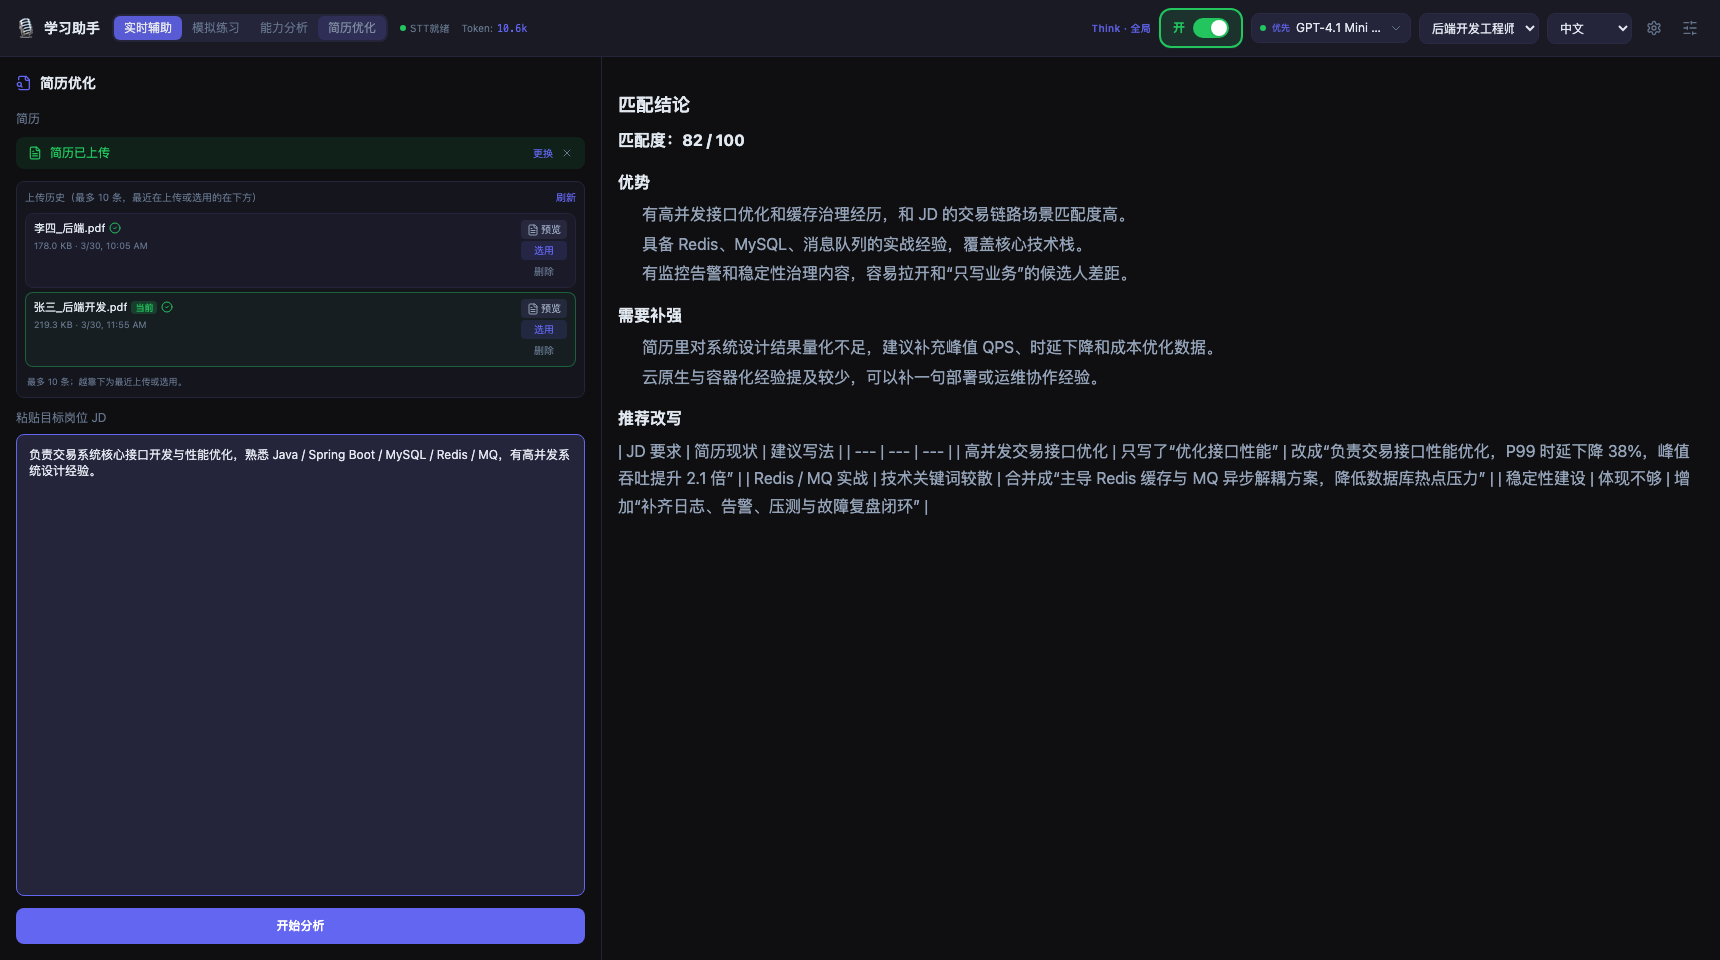
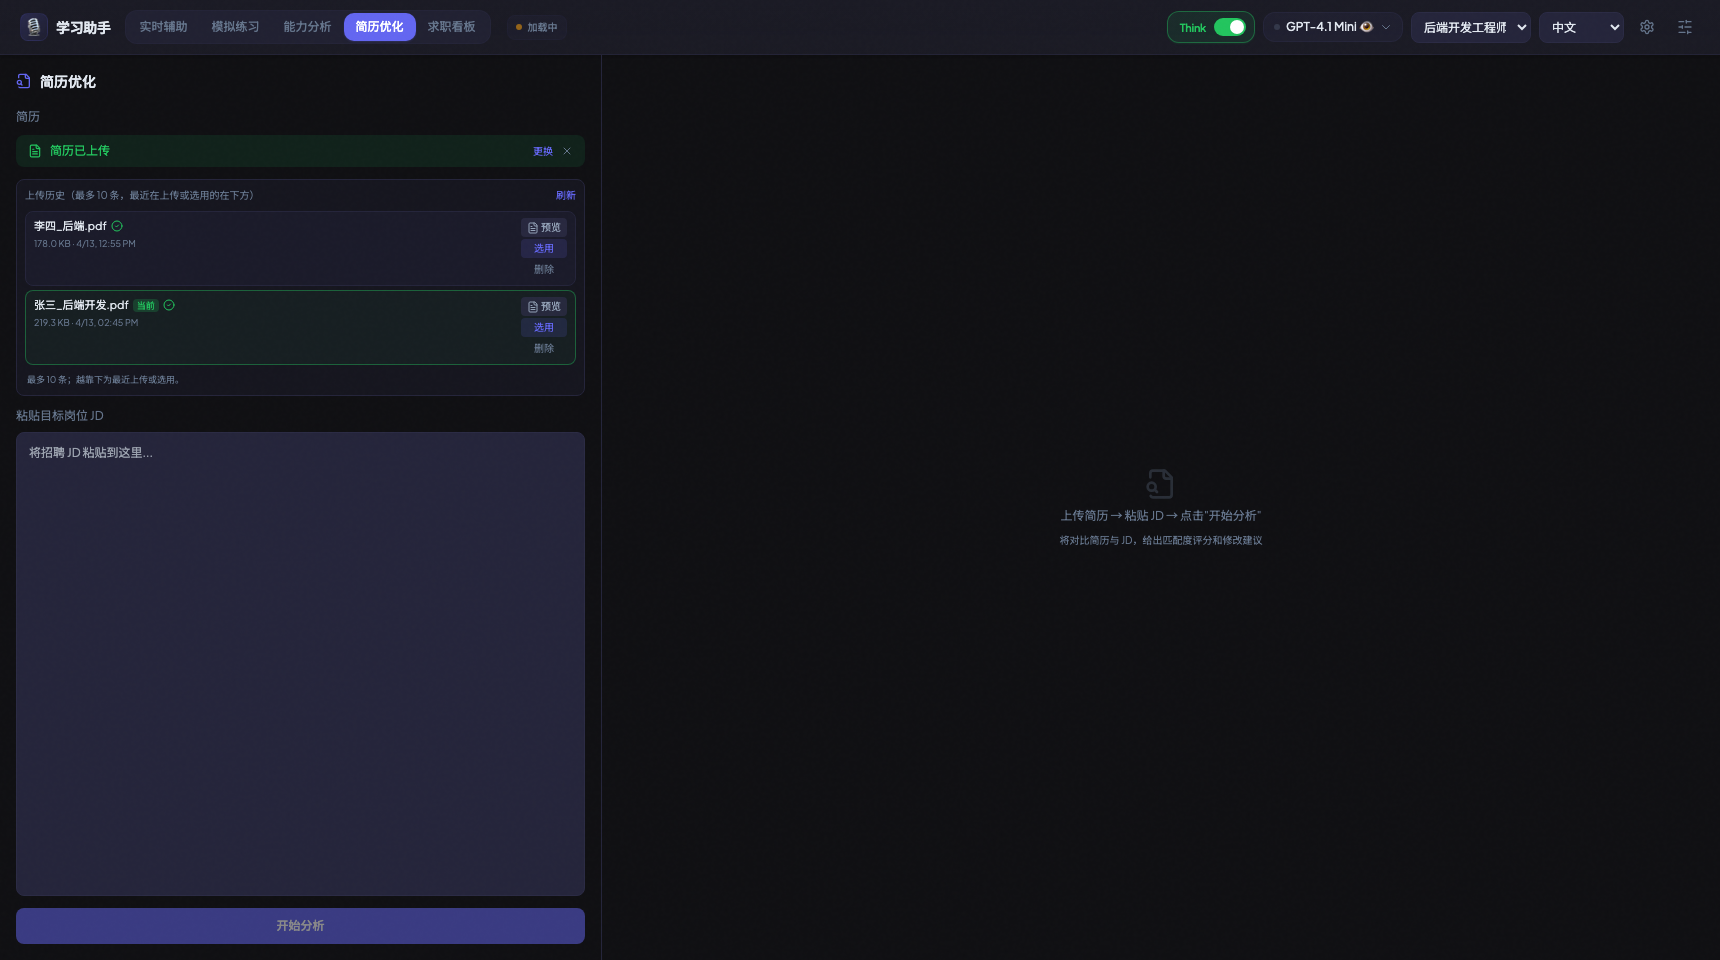
docs: README 文案优化、截图更新与 gitignore 补充
- README 描述更口语化，补充悬浮窗和开发测试命令
- 更新四张功能截图为最新 UI
- 截图脚本适配 tab role 选择器，新增 preflight mock
- gitignore 添加 docs/screenshots/review/ 和 frontend/output/
- 新增后端 API 契约测试和并发测试文件

diff --git a/backend/tests/test_wave1_backend_concurrency.py b/backend/tests/test_wave1_backend_concurrency.py
@@ -1,0 +1,80 @@
+from __future__ import annotations
+
+import asyncio
+from pathlib import Path
+import importlib
+import sys
+
+
+BACKEND_DIR = Path(__file__).resolve().parents[1]
+if str(BACKEND_DIR) not in sys.path:
+    sys.path.insert(0, str(BACKEND_DIR))
+
+common_router = importlib.import_module("api.common.router")
+ws_mod = importlib.import_module("api.realtime.ws")
+assist_pipeline = importlib.import_module("api.assist.pipeline")
+
+
+class DummyUpload:
+    def __init__(self, filename: str, content: bytes):
+        self.filename = filename
+        self._content = content
+
+    async def read(self) -> bytes:
+        return self._content
+
+
+def test_api_upload_resume_offloads_blocking_work_to_threadpool(monkeypatch):
+    called: dict[str, object] = {}
+
+    def fake_add_upload(content: bytes, filename: str):
+        return {"ok": True, "filename": filename, "size": len(content)}
+
+    async def fake_run_in_threadpool(fn, *args, **kwargs):
+        called["fn"] = fn
+        called["args"] = args
+        called["kwargs"] = kwargs
+        return fn(*args, **kwargs)
+
+    monkeypatch.setattr(common_router, "add_upload", fake_add_upload)
+    monkeypatch.setattr(common_router, "run_in_threadpool", fake_run_in_threadpool)
+
+    result = asyncio.run(
+        common_router.api_upload_resume(DummyUpload("resume.txt", b"hello world"))
+    )
+
+    assert called["fn"] is fake_add_upload
+    assert called["args"] == (b"hello world", "resume.txt")
+    assert result["ok"] is True
+
+
+def test_broadcast_counts_and_drops_when_queue_is_full(monkeypatch):
+    class InlineLoop:
+        def call_soon_threadsafe(self, callback, *args):
+            callback(*args)
+
+    class FullQueue:
+        def put_nowait(self, data):
+            raise asyncio.QueueFull
+
+    monkeypatch.setattr(ws_mod, "_loop", InlineLoop())
+    monkeypatch.setattr(ws_mod, "_msg_queue", FullQueue())
+    monkeypatch.setattr(ws_mod, "_broadcast_drop_count", 0, raising=False)
+
+    ws_mod.broadcast({"type": "audio_level", "value": 0.42})
+
+    assert ws_mod._broadcast_drop_count == 1
+
+
+def test_submit_knowledge_record_uses_bounded_worker(monkeypatch):
+    submitted: list[tuple[str, str]] = []
+
+    class FakeWorker:
+        def submit(self, question: str, answer: str) -> bool:
+            submitted.append((question, answer))
+            return True
+
+    monkeypatch.setattr(assist_pipeline, "_knowledge_worker", FakeWorker(), raising=False)
+
+    assert assist_pipeline._submit_knowledge_record("说说 Redis 持久化", "先讲 RDB，再讲 AOF") is True
+    assert submitted == [("说说 Redis 持久化", "先讲 RDB，再讲 AOF")]

diff --git a/backend/tests/test_api_contracts.py b/backend/tests/test_api_contracts.py
@@ -1,0 +1,46 @@
+from __future__ import annotations
+
+import asyncio
+from pathlib import Path
+import importlib
+import sys
+
+import pytest
+from fastapi import HTTPException
+
+
+BACKEND_DIR = Path(__file__).resolve().parents[1]
+if str(BACKEND_DIR) not in sys.path:
+    sys.path.insert(0, str(BACKEND_DIR))
+
+main_mod = importlib.import_module("main")
+assist_routes = importlib.import_module("api.assist.routes")
+
+
+def test_is_path_within_dir_rejects_same_prefix_sibling(tmp_path: Path):
+    safe_dir = tmp_path / "dist"
+    sibling_dir = tmp_path / "dist-evil"
+    safe_dir.mkdir()
+    sibling_dir.mkdir()
+
+    assert main_mod._is_path_within_dir(safe_dir, sibling_dir / "index.html") is False
+
+
+def test_api_start_rejects_non_integer_device_id():
+    with pytest.raises(HTTPException) as exc_info:
+        asyncio.run(assist_routes.api_start({"device_id": "abc"}))
+
+    assert exc_info.value.status_code == 400
+    assert "device_id" in str(exc_info.value.detail)
+
+
+def test_api_ask_returns_error_when_no_answer_model_available(monkeypatch: pytest.MonkeyPatch):
+    monkeypatch.setattr(assist_routes, "submit_answer_task", lambda task: False)
+
+    with pytest.raises(HTTPException) as exc_info:
+        asyncio.run(
+            assist_routes.api_ask(assist_routes.ManualQuestion(text="解释一下 CAP 定理"))
+        )
+
+    assert exc_info.value.status_code == 503
+    assert "模型" in str(exc_info.value.detail)

diff --git a/README.md b/README.md
@@ -1,7 +1,7 @@
 # 智能面试学习辅助助手
 
-实时听题，自动生成专业面试回答。目前能防大多数屏幕共享检测，具体请自己试试，也支持悬浮模式和歌词模式啦，具体也自己试试
-面向真实技术面试场景：支持系统音频 / 麦克风转写、手动追问、截图审题、多模型切换；Electron 端还提供共享隐身和 Boss Key。
+实时听题，自动生成专业面试回答。你可以把它理解成一个开着就能用的面试辅助工具：你负责听题、追问和临场反应，它负责转写、答题、截图审题，卡壳的时候还能把问答框挂在旁边。
+面向真实技术面试场景：支持系统音频 / 麦克风转写、手动追问、截图审题、多模型切换；Electron 端提供共享隐身、Boss Key、托盘和轻量悬浮窗，绝大多数面试软件场景下都能避开屏幕共享检测。
 
 ![AI 实时辅助演示](docs/screenshots/assist-demo.gif)
 
@@ -15,19 +15,20 @@
 
 ## 为什么值得试
 
-- **实时转写**：采集系统音频或麦克风，把面试过程实时转成文字。
-- **AI 自动答题**：识别问题后直接生成回答，也可以手动输入追问。
+- **实时转写**：采集系统音频或麦克风，把面试过程稳定转成文字。
+- **自动答题 + 手动追问**：识别到问题后直接生成回答，也可以临时补一句“写代码实现”继续追问。
 - **截图审题**：支持粘贴截图，把题目、代码或页面内容直接交给模型分析。
 - **多模型协同**：支持 OpenAI 兼容接口、优先模型、并行路数、自动降级、Think 与识图。
-- **求职看板**：本地记录投递进度，看板 / 表格双视图，Offer 对比（浏览器 & Electron 均可用）。
-- **更适合实战**：Electron 端支持共享隐身、`Ctrl/Command + B` Boss Key、托盘和窗口置顶。
+- **桌面辅助更顺手**：Electron 端支持共享隐身、`Ctrl/Command + B` Boss Key、托盘和悬浮问答框。
+- **不只是答题**：还带求职看板、能力分析、简历优化和模拟练习。
 
 ## 核心流程
 
 1. 选择系统音频或麦克风。
 2. 点击开始，实时转写面试内容。
 3. 识别到问题后自动生成回答。
-4. 需要时手动追问、补一句"写代码实现"、或直接截图审题。
+4. 需要时手动追问、补一句“写代码实现”、或直接截图审题。
+5. 如果不想一直盯主界面，可以打开悬浮问答框，把最近的问题和答案挂在旁边。
 
 静态界面预览：
 
@@ -41,7 +42,7 @@
 | **模拟练习** | AI 面试官出题、逐题评价、生成练习报告 |
 | **求职看板** | 投递进度看板（表格 / Kanban）、拖拽排序、Offer 对比、状态色彩标签 |
 | **能力分析** | 知识点 / 薄弱点沉淀、历史问答记录 |
-| **简历优化** | 上传简历对照 JD、AI 给出修改建议 |
+| **简历优化** | 上传简历，对照 JD 输出修改建议 |
 | **设置中心** | 多模型管理、STT 引擎切换、快捷键、偏好配置 |
 
 ## 架构
@@ -153,7 +154,8 @@ python start.py --mode network  # 浏览器模式，默认 http://localhost:1808
 cd frontend && npm run dev
 cd backend && python -m uvicorn main:app --host 127.0.0.1 --port 18080 --reload
 
-python scripts/e2e_test.py
+cd frontend && npm test
+python -m pytest backend/tests -q
 ```
 
 更新 README 截图：
